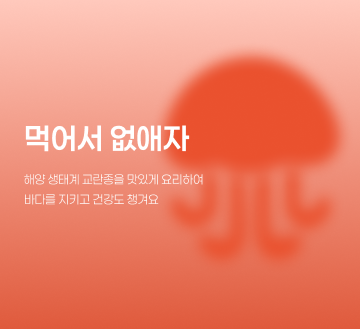
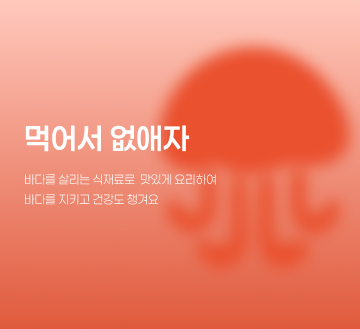
fix name

diff --git a/src/entities/creatures.js b/src/entities/creatures.js
@@ -1,4 +1,4 @@
-// 해양 유해 생물 목데이터
+// 바다를 살리는 식재료 목데이터
 
 export const CREATURES = [
   {
@@ -25,7 +25,7 @@ export const CREATURES = [
     id: 'amur-starfish',
     name: '아무르불가사리',
[1 lines of base64/hex data omitted]
-    description: '북태평양이 원산지인 불가사리로, 양식 굴과 조개를 대량으로 잡아먹어 양식업에 큰 피해를 주는 해양 유해 생물입니다.',
+    description: '북태평양이 원산지인 불가사리로, 양식 굴과 조개를 대량으로 잡아먹어 양식업에 큰 피해를 주는 바다를 살리는 식재료입니다.',
     habitat: '연안 해역, 양식장',
     size: '20-30cm',
     danger: '양식 생물 포식',
@@ -35,7 +35,7 @@ export const CREATURES = [
     id: 'star-starfish',
     name: '별불가사리',
[1 lines of base64/hex data omitted]
-    description: '조개류를 주식으로 하는 불가사리로, 어패류 양식장에 막대한 피해를 주는 유해 생물입니다.',
+    description: '조개류를 주식으로 하는 불가사리로, 어패류 양식장에 막대한 피해를 주는 바다를 살리는 식재료입니다.',
     habitat: '조간대, 양식장',
     size: '15-25cm',
     danger: '양식 조개 포식',

diff --git a/src/pages/DetectPage.jsx b/src/pages/DetectPage.jsx
@@ -30,7 +30,7 @@ export function DetectPage({ onNavigate }) {
 
     try {
       const apiUrl = import.meta.env.VITE_API_URL;
-      
+
       if (apiUrl) {
         // 이미지를 base64로 인코딩
         const base64Image = await new Promise((resolve, reject) => {
@@ -43,7 +43,7 @@ export function DetectPage({ onNavigate }) {
           reader.onerror = reject;
           reader.readAsDataURL(file);
         });
-        
+
         // 백엔드 API 연결 (base64 JSON 전송)
         const response = await fetch(`${apiUrl}`, {
           method: 'POST',
@@ -54,15 +54,15 @@ export function DetectPage({ onNavigate }) {
             image_base64: base64Image,
           }),
         });
-        
+
         if (!response.ok) {
           throw new Error('API 요청 실패');
         }
-        
+
         const data = await response.json();
         const creatureName = data.name;
         const creature = getCreatureByName(creatureName);
-        
+
         if (creature) {
           setResult({
             isHarmful: true,
@@ -77,21 +77,21 @@ export function DetectPage({ onNavigate }) {
             isHarmful: false,
             species: creatureName || '알 수 없는 생물',
             confidence: Math.round((data.confidence || 0)),
-            description: '이 생물은 해양 유해생물이 아닙니다. 안심하세요!',
+            description: '이 생물은 바다를 살리는 식재료가 아닙니다. 안심하세요!',
           });
           setSelectedSpecies(null);
         }
       } else {
         // Mock API (백엔드 미연결 시)
         await new Promise(resolve => setTimeout(resolve, 2000));
-        
+
         const mockApiResponse = {
           creature_name: '군소'
         };
-        
+
         const creatureName = mockApiResponse.creature_name;
         const creature = getCreatureByName(creatureName);
-        
+
         if (creature) {
           setResult({
             isHarmful: true,
@@ -132,7 +132,7 @@ export function DetectPage({ onNavigate }) {
           <button onClick={() => onNavigate('home')} className="flex-shrink-0">
             <ArrowLeft className="w-6 h-6 text-gray-700" />
           </button>
-          <h2 className="text-xl">유해생물 판별기</h2>
+          <h2 className="text-xl">바다를 살리는 식재료 판별기</h2>
         </div>
 
         {/* Tabs */}
@@ -142,9 +142,8 @@ export function DetectPage({ onNavigate }) {
             className="relative pb-1"
           >
             <p
-              className={`text-[15px] ${
-                activeTab === 'upload' ? 'text-primary' : 'text-[#b2b2b2]'
-              }`}
+              className={`text-[15px] ${activeTab === 'upload' ? 'text-primary' : 'text-[#b2b2b2]'
+                }`}
             >
               사진 등록하기
             </p>
@@ -157,11 +156,10 @@ export function DetectPage({ onNavigate }) {
             className="relative pb-1"
           >
             <p
-              className={`text-[15px] ${
-                activeTab === 'info' ? 'text-primary' : 'text-[#b2b2b2]'
-              }`}
+              className={`text-[15px] ${activeTab === 'info' ? 'text-primary' : 'text-[#b2b2b2]'
+                }`}
             >
-              유해생물 정보
+              바다를 살리는 식재료 정보
             </p>
             {activeTab === 'info' && (
               <div className="absolute bottom-0 left-0 right-0 h-[1px] bg-primary" />
@@ -249,17 +247,15 @@ export function DetectPage({ onNavigate }) {
             <div>
               <h3 className="mb-4">판별 결과</h3>
               <div
-                className={`rounded-3xl p-6 mb-6 ${
-                  result.isHarmful
+                className={`rounded-3xl p-6 mb-6 ${result.isHarmful
                     ? 'bg-gradient-to-br from-[#EA512E]/10 to-[#FF7A59]/10 border-2 border-primary'
                     : 'bg-gray-50 border-2 border-gray-300'
-                }`}
+                  }`}
               >
                 <div className="flex items-start gap-4 mb-4">
                   <div
-                    className={`w-12 h-12 rounded-full flex items-center justify-center ${
-                      result.isHarmful ? 'bg-primary' : 'bg-green-500'
-                    }`}
+                    className={`w-12 h-12 rounded-full flex items-center justify-center ${result.isHarmful ? 'bg-primary' : 'bg-green-500'
+                      }`}
                   >
                     <Check className="w-6 h-6 text-white" />
                   </div>
